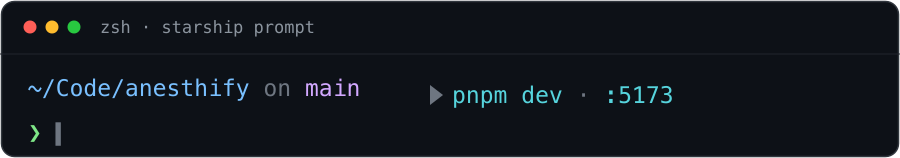
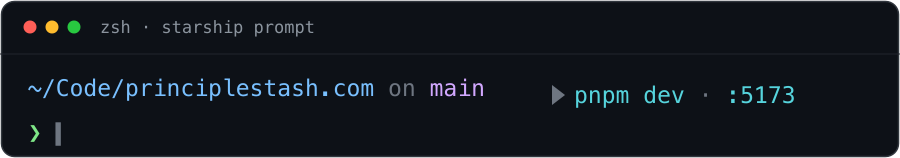
site: principlestash.com demos, authentic Claude Code hero, showcase runcommand init
- Replace anesthify with principlestash.com across hero, starship demo, OG + shot SVGs
  (PNGs regenerated; starship shot repositioned to avoid collision).
- Rebuild the hero as a real Claude Code bar: input box + [Opus] status row + the
  runcommand line; fix the hero grid (minmax) so lines don't wrap.
- Hero install box leads with 'runcommand init'; commands table adds init/agents/uninstall.

Changed region(s): [[0.1244, 0.481, 0.7778, 0.6835], [0.8089, 0.5316, 0.9022, 0.6582]]

diff --git a/site/src/styles/global.css b/site/src/styles/global.css
@@ -112,3 +112,13 @@ section { padding-block: clamp(3rem, 8vw, 5.5rem); }
    whitespace (Astro collapses newlines in slotted content). */
 .term-body .ln { display: block; }
 .term-body .ln:empty { block-size: 1.75em; }
+/* Claude Code's input box: a rounded, full-width row above the status line. */
+.term-body .cc-box {
+  display: block;
+  border: 1px solid #30363d;
+  border-radius: 8px;
+  padding: 0.28rem 0.7rem;
+  margin-block-end: 0.55rem;
+  color: #8b949e;
+}
+.term-body .cc-caret { color: #56d4dd; }
